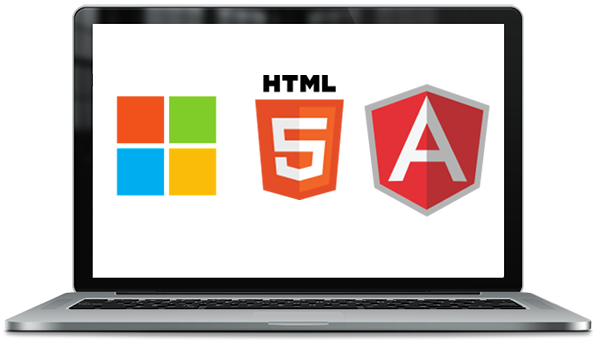
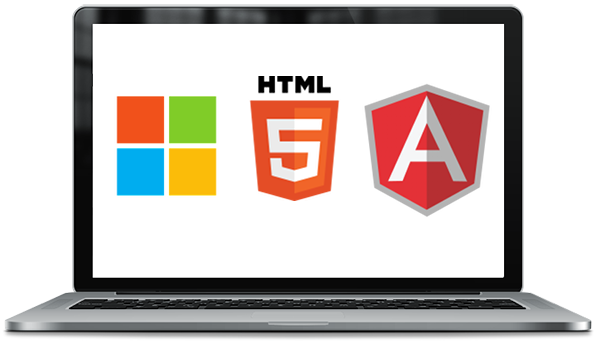
laptop image

Changed region(s): [[0.39, 0.2041, 0.6, 0.5831]]

diff --git a/index.html b/index.html
@@ -196,7 +196,7 @@
                                 
                                 data-speed="1000"
                                 data-start="1000"
-                                data-easing="Power1.easeOut"><img src="images/brkpt/laptop.png" alt="" />
+                                data-easing="Power1.easeOut"><img src="images/brkpt/laptop2.png" alt="" />
                             </div>
                             
                         </li>
